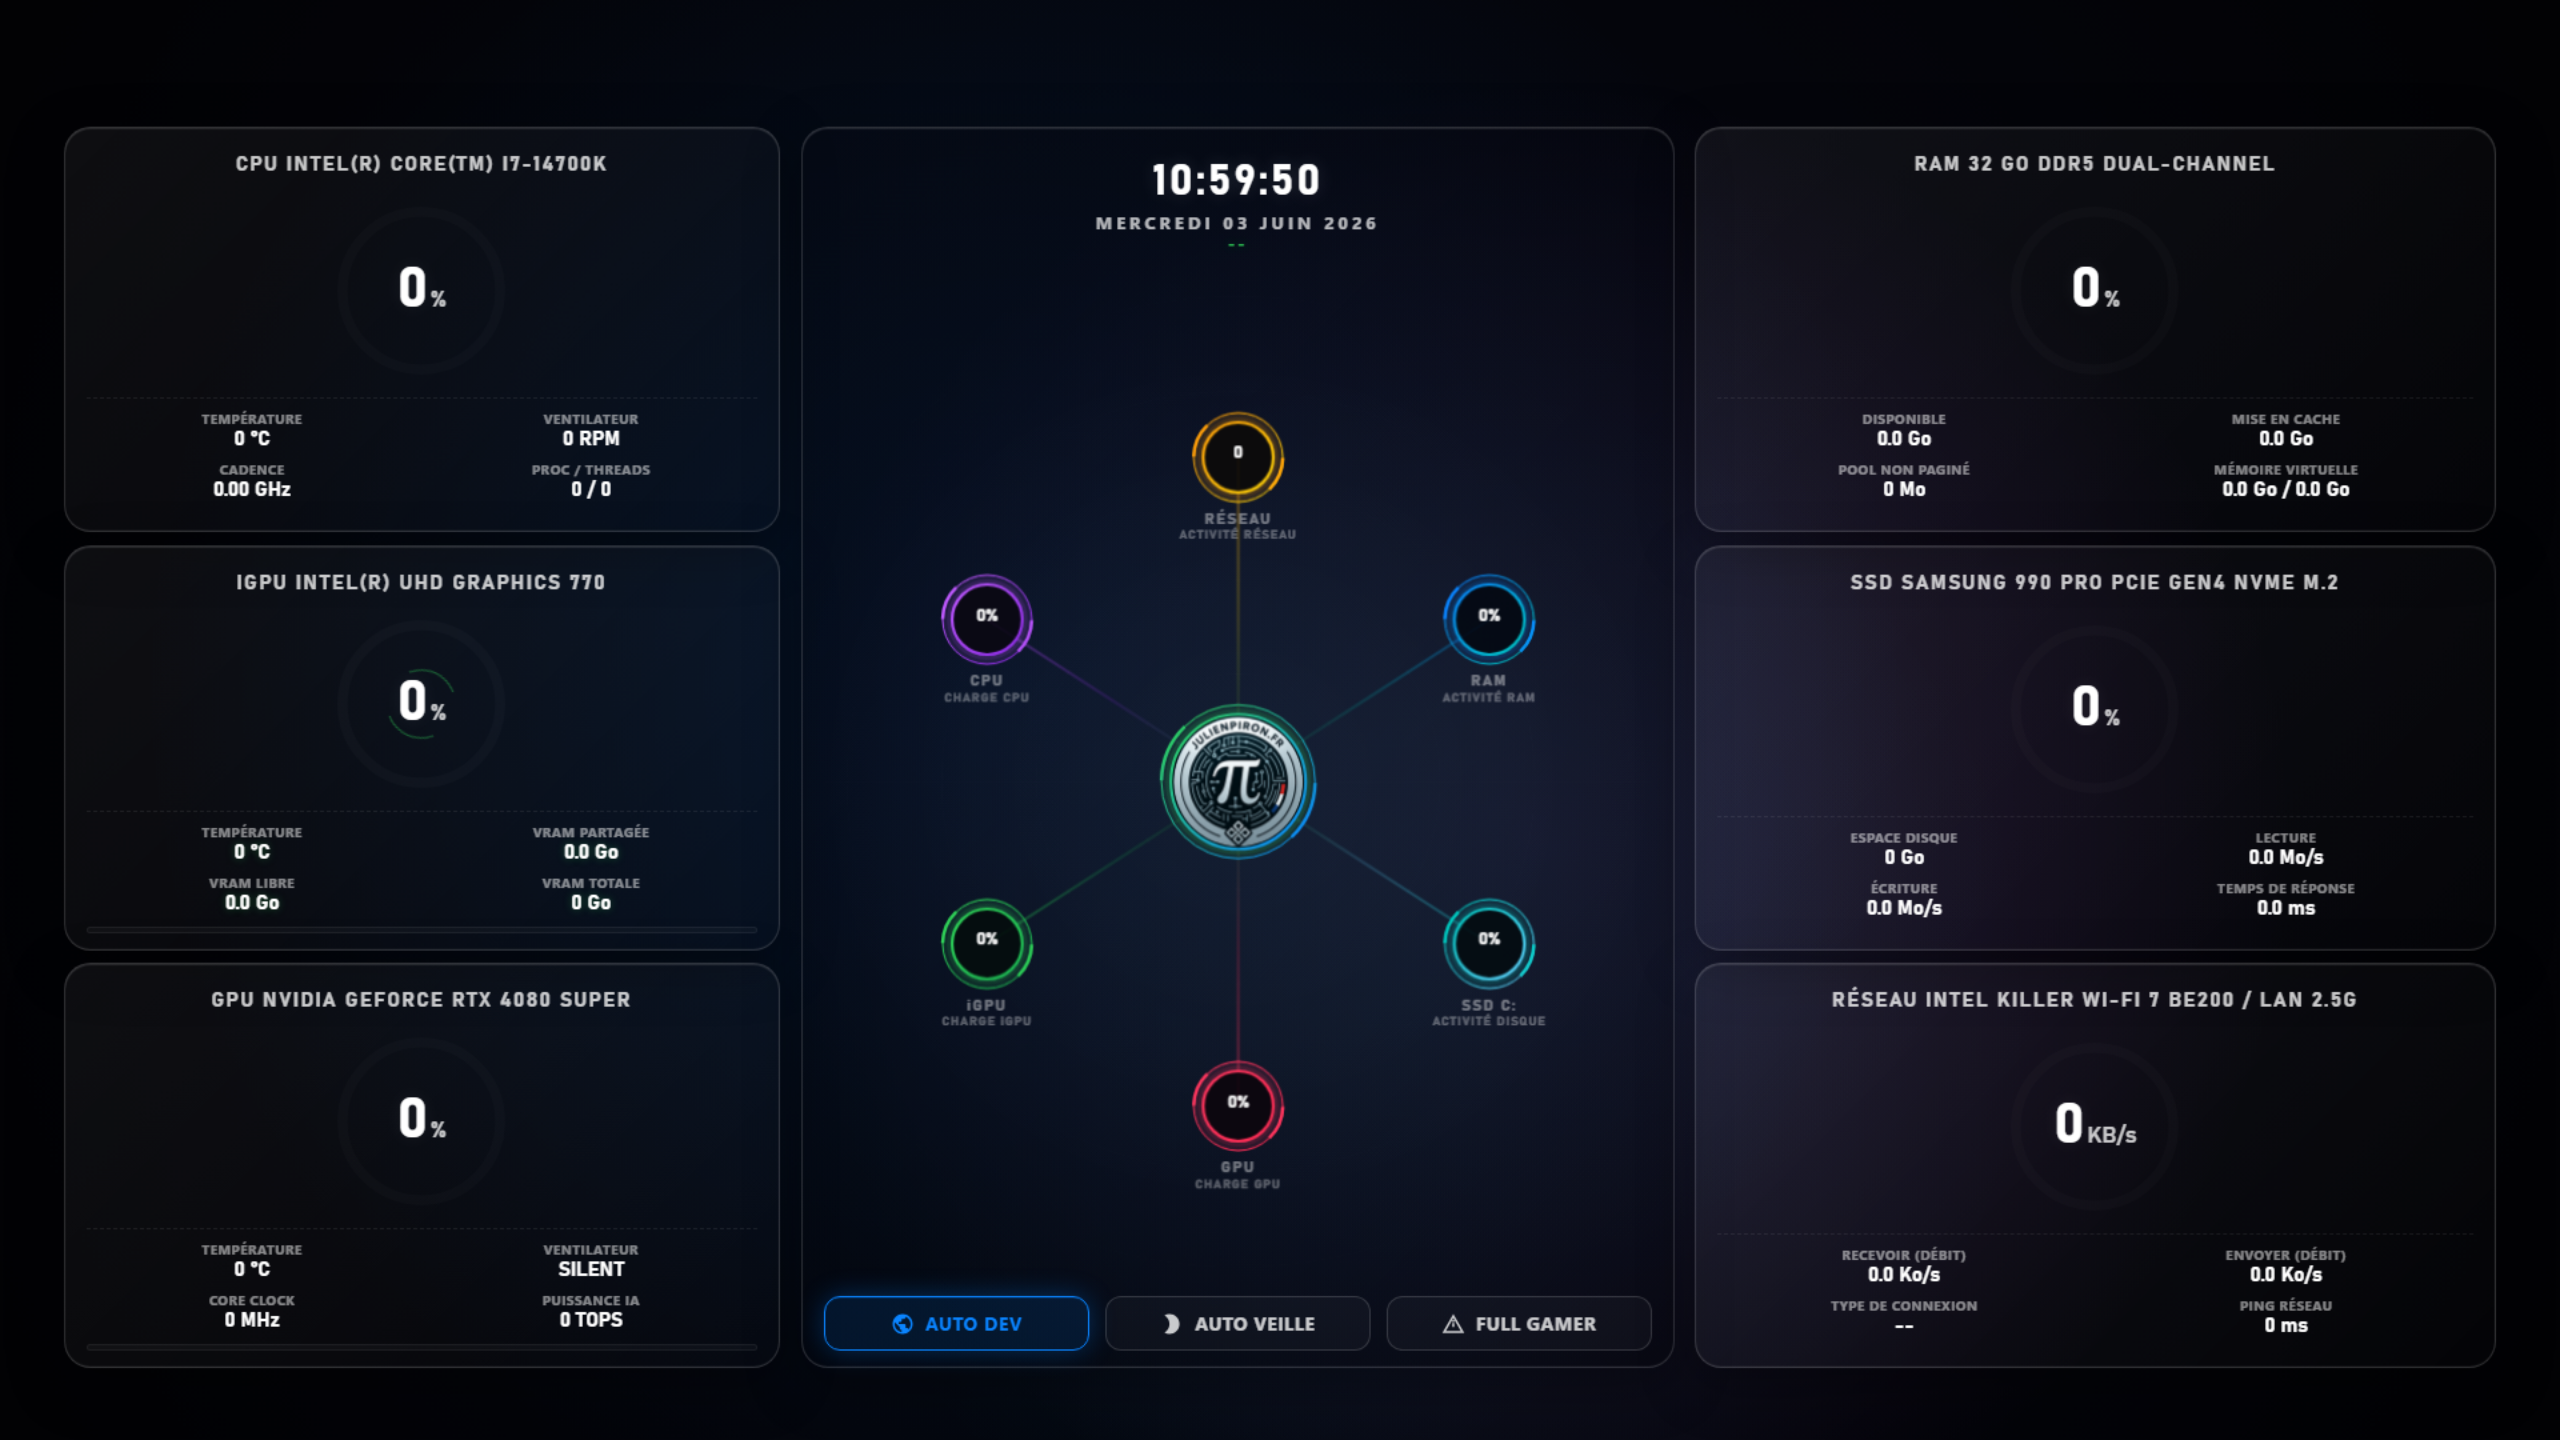
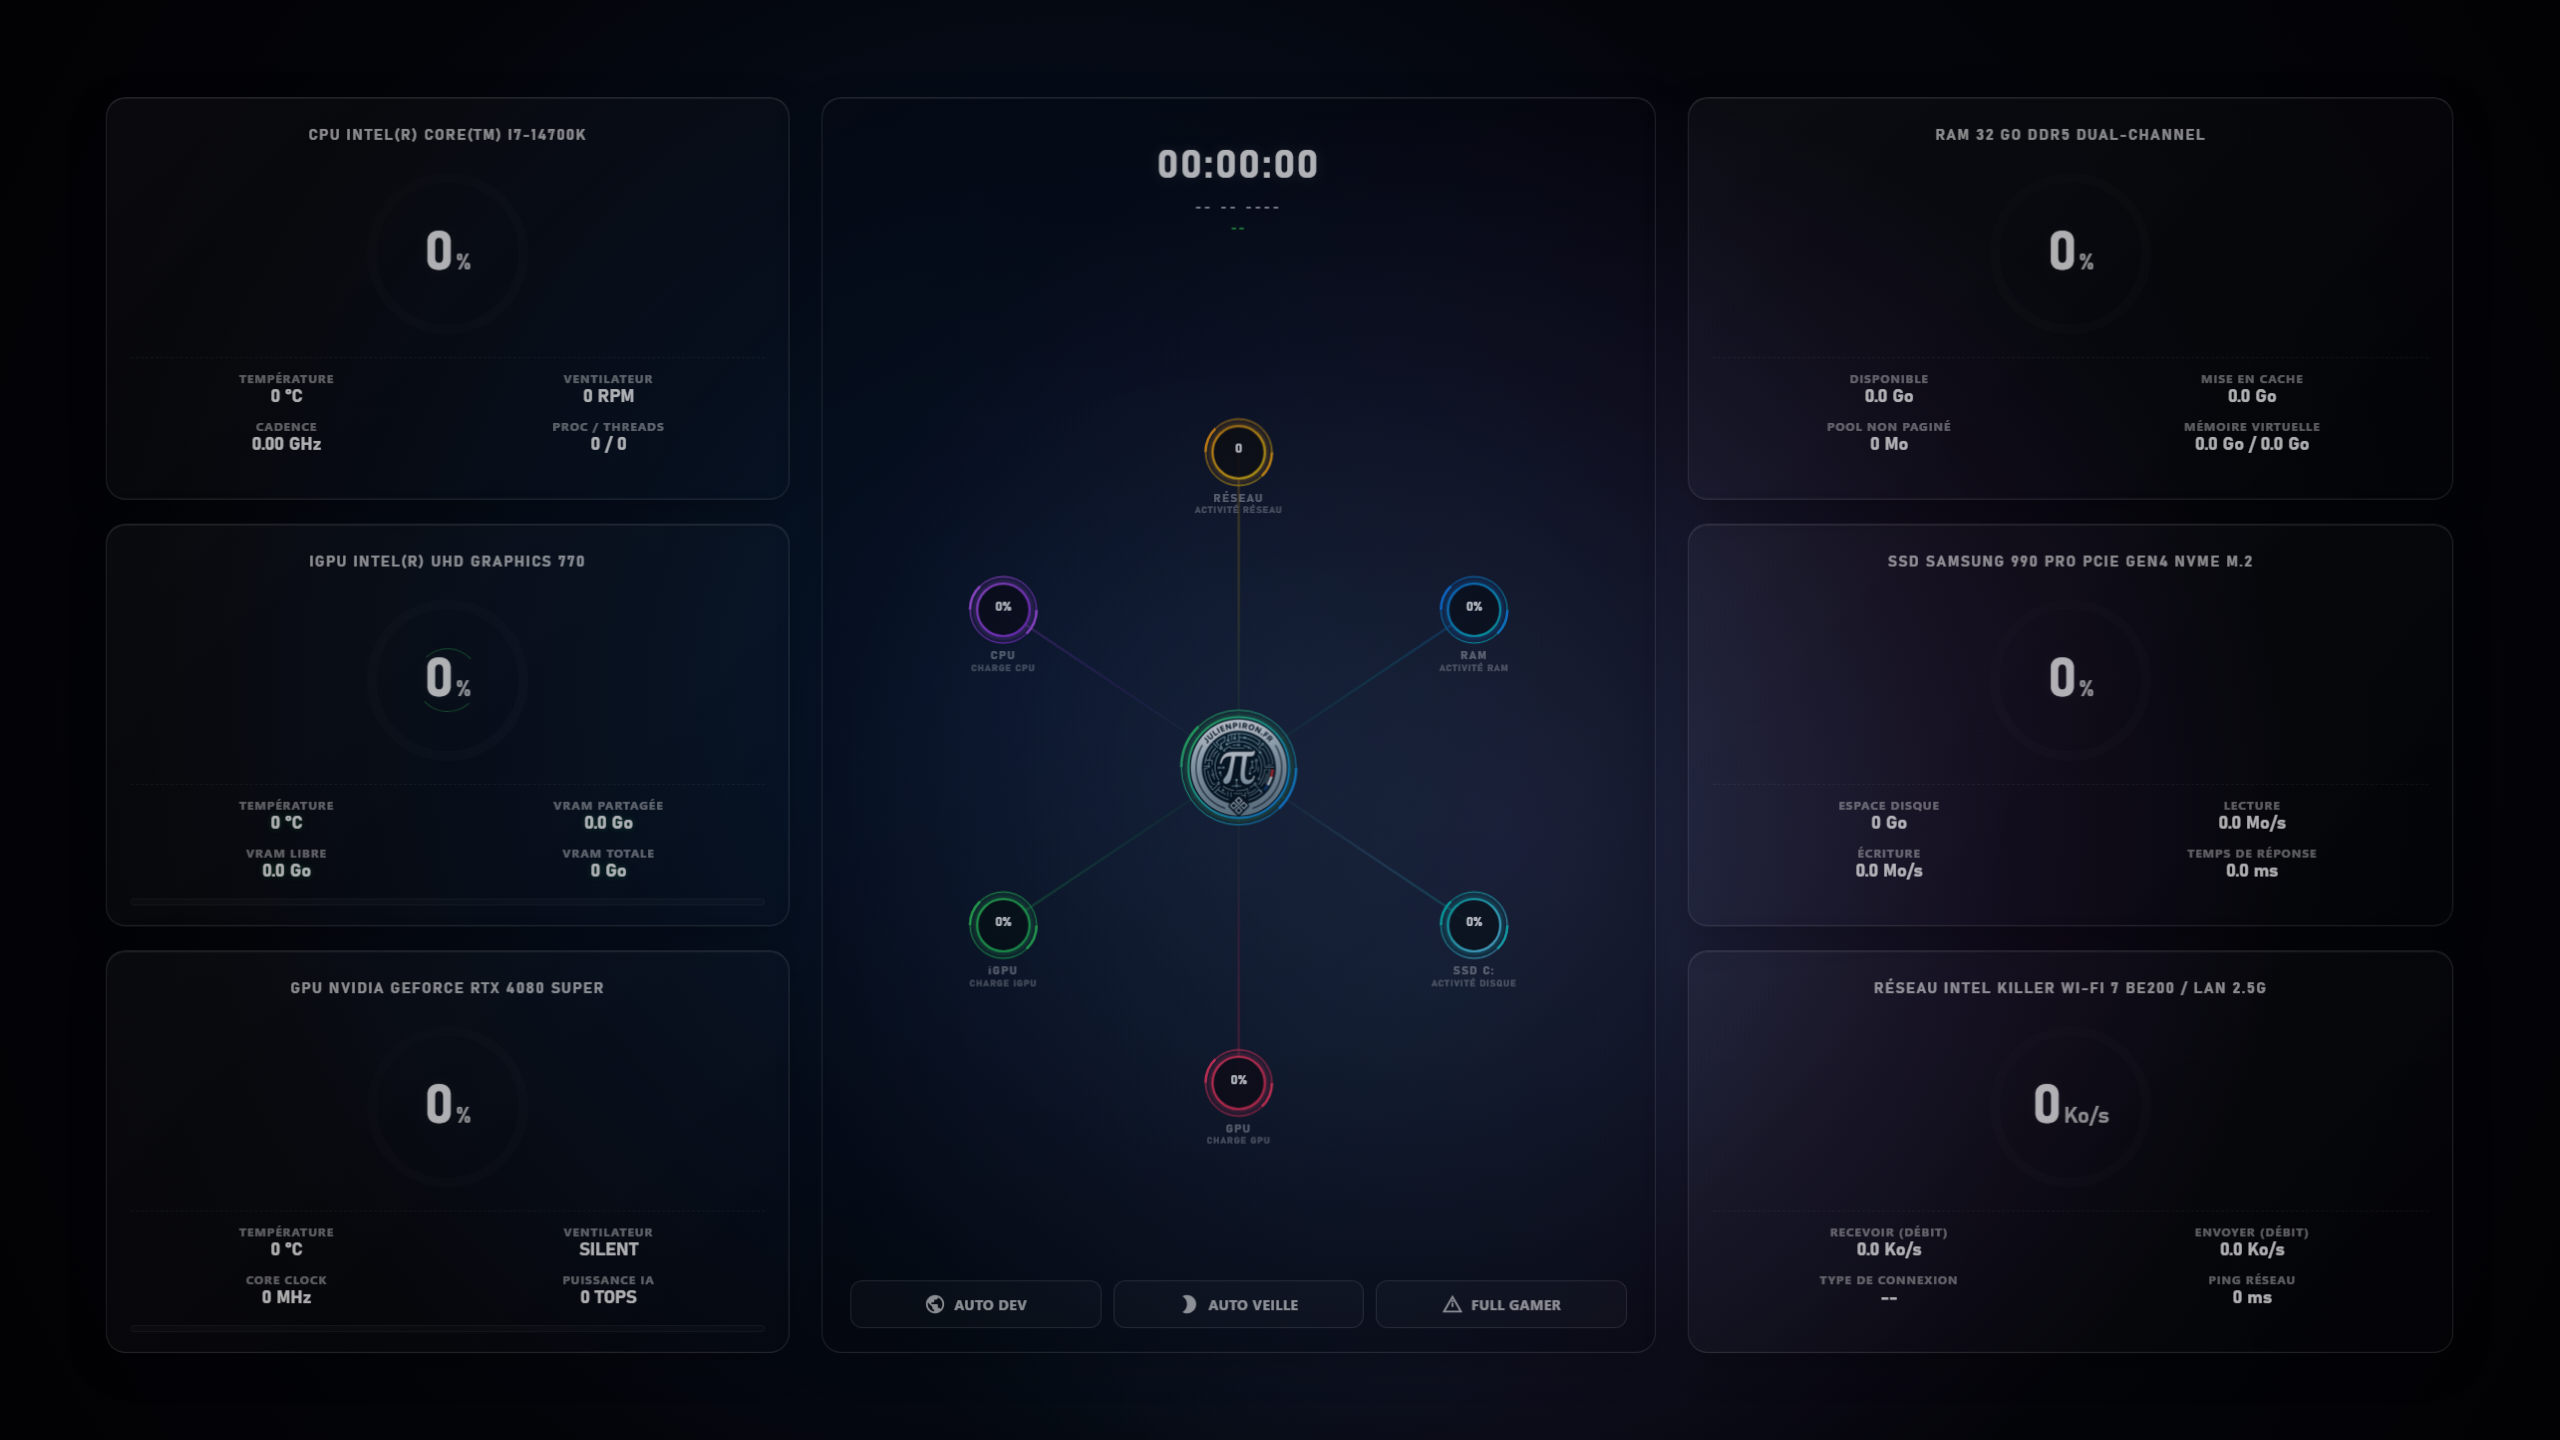
Finalize loading snapshot and sharing cleanup

diff --git a/README.md b/README.md
@@ -18,6 +18,7 @@ NexusWpp affiche un cockpit matériel dynamique directement dans le bureau Windo
 - `run.bat` : menu local pour démarrer, compiler, déployer ou arrêter l'app.
 - `scripts/benchmark_nexuswpp.ps1` : benchmark multi-run CPU/RAM/startup.
 - `scripts/benchmark_fullscreen_suspend.ps1` : mesure actif vs suspension plein écran.
+- `scripts/generate_loading_snapshot.ps1` : régénère l'image de chargement 2560x1440 à zéro.
 
 ## Démarrage Rapide
 
@@ -47,6 +48,7 @@ L'application contient un verrou single-instance, donc les deux lanceurs ne cré
 - Le raccourci de démarrage utilise le dossier Startup de l'utilisateur courant, pas un chemin utilisateur codé en dur.
 - Le fond d'écran fonctionne sans serveur Node et sans dépendance npm.
 - Le sélecteur d'alimentation confirme le GUID actif Windows et ignore les clics quand une autre application recouvre le panneau.
+- `loading-zero-1440p.png` est affiché immédiatement au lancement pour masquer le court temps de chargement WebView2.
 
 ## Pourquoi C'est Plus Rapide Qu'Avant
 